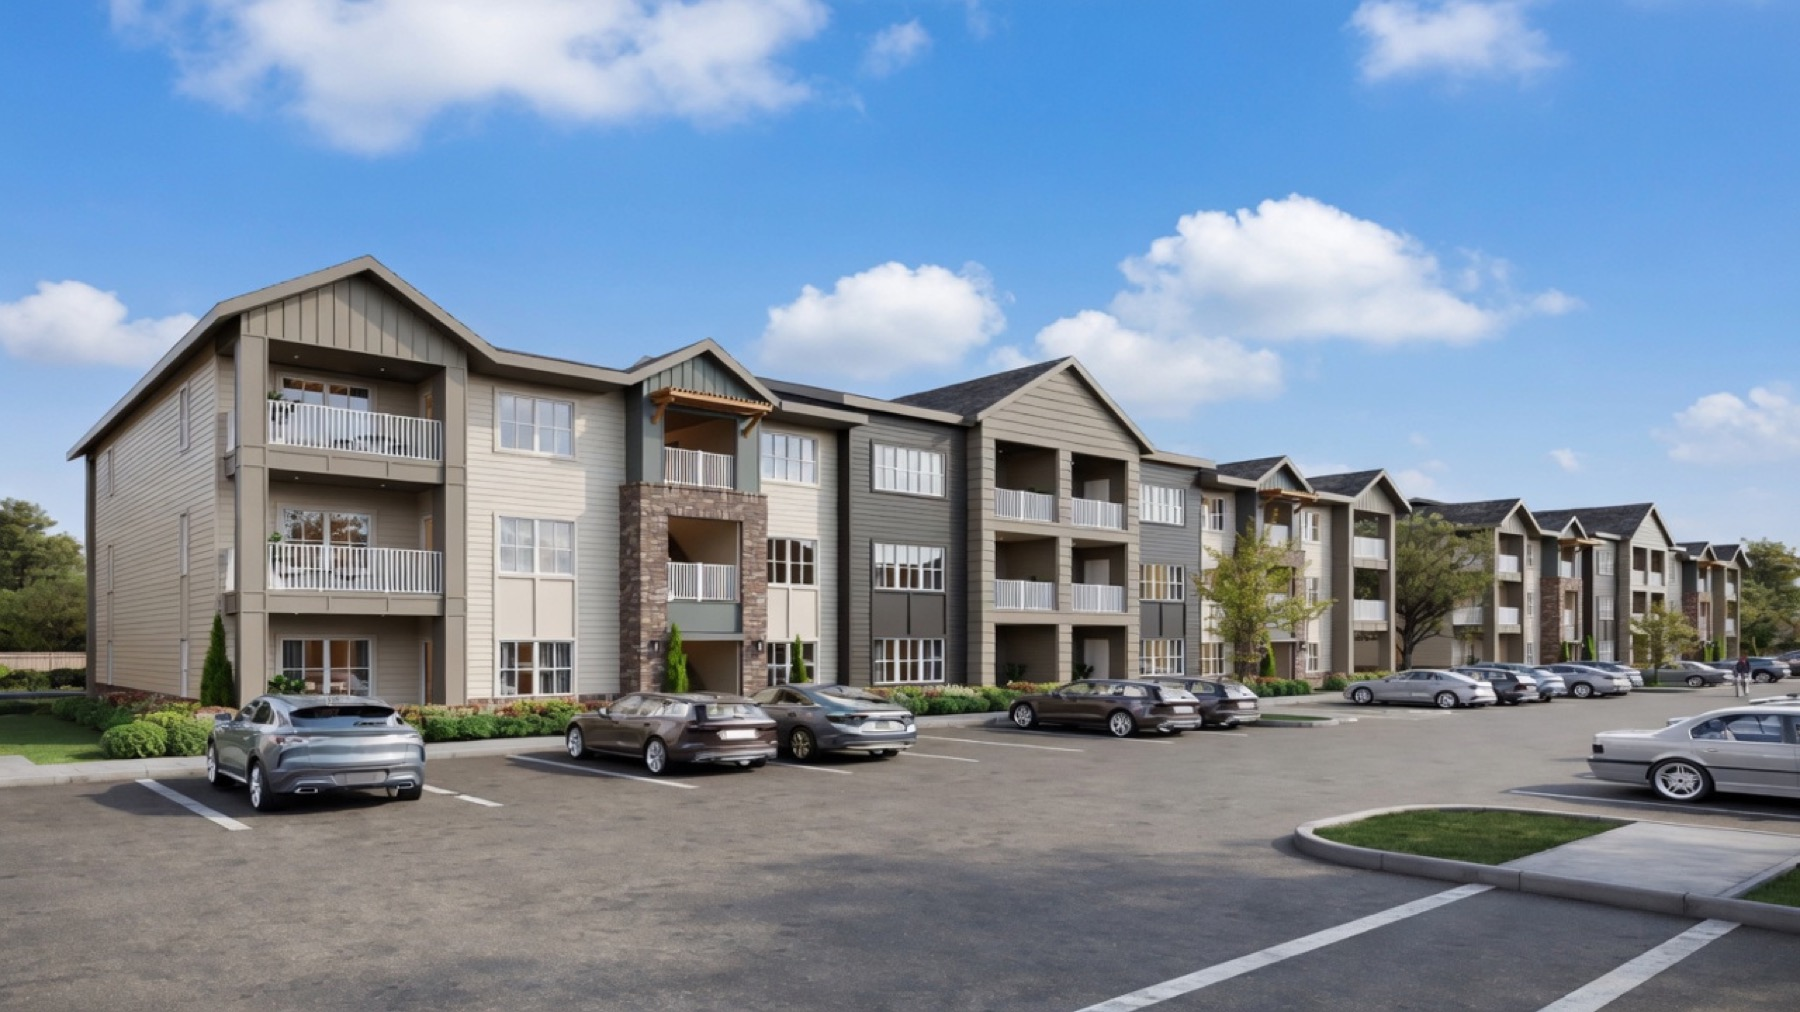
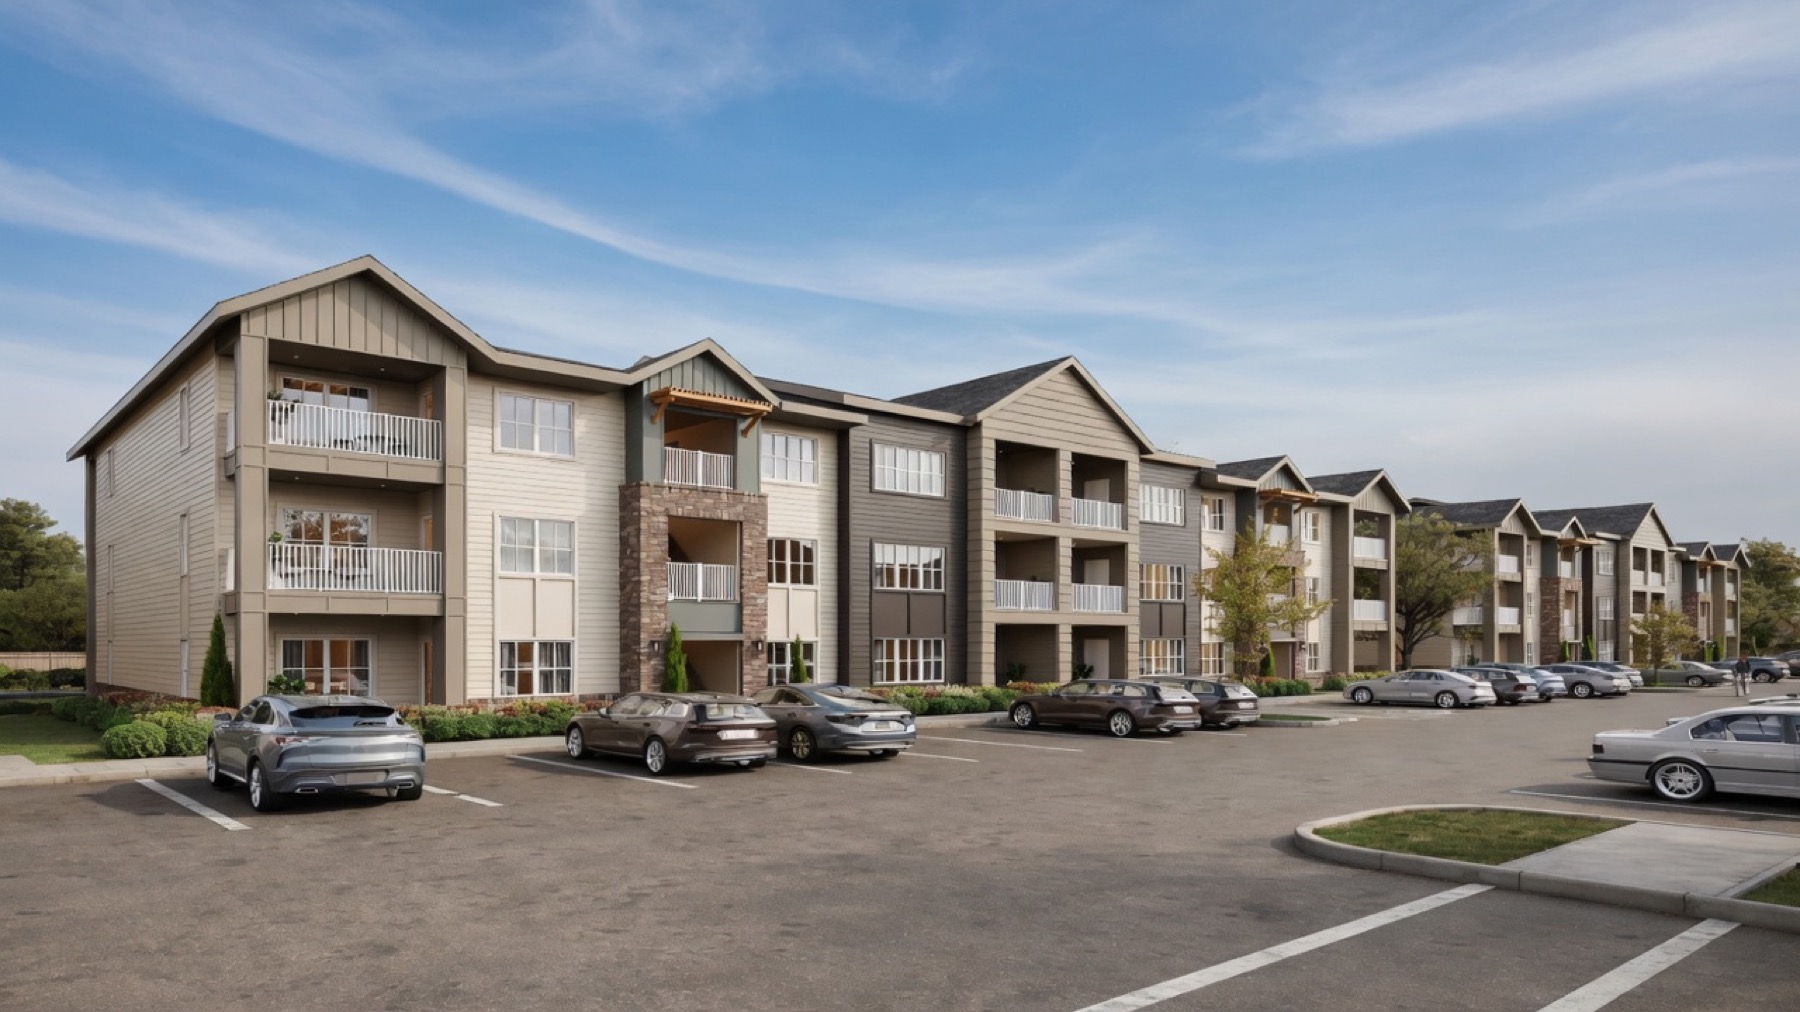
More footer breathing room + stronger Liva photoreal pass
- Extra bottom padding under footer legal so disclaimer is not flush to page edge
- Mobile sticky CTA clearance bumped
- Install cleaner Liva exterior for track cards

diff --git a/styles.css b/styles.css
@@ -835,7 +835,7 @@ input:focus, select:focus, textarea:focus {
   border-top: 1px solid var(--line);
   background:
     linear-gradient(180deg, #f7f5f1 0%, #f1ebe2 100%);
-  padding: 3rem 0 2rem;
+  padding: 3rem 0 4.5rem;
   position: relative;
 }
 .site-footer::before {
@@ -878,22 +878,23 @@ input:focus, select:focus, textarea:focus {
 }
 .footer-links a:hover { color: var(--gold-deep); }
 .legal {
-  margin-top: 2rem;
-  padding-top: 1.3rem;
+  margin-top: 2.25rem;
+  padding-top: 1.5rem;
+  padding-bottom: 1.25rem;
   border-top: 1px solid var(--line);
   font-size: 0.72rem;
-  line-height: 1.65;
+  line-height: 1.7;
   color: var(--muted);
   max-width: 64rem;
 }
 .legal-copy {
-  margin: 0 0 0.75rem;
+  margin: 0 0 0.85rem;
   font-size: inherit;
   line-height: inherit;
   color: inherit;
   font-weight: 400;
 }
-.legal-copy:last-child { margin-bottom: 0; }
+.legal-copy:last-child { margin-bottom: 0.5rem; }
 .legal-copy strong {
   color: var(--ink-soft);
   font-weight: 600;
@@ -917,7 +918,7 @@ input:focus, select:focus, textarea:focus {
 .mobile-cta .btn { width: 100%; }
 body.has-mobile-cta main,
 body.has-mobile-cta .site-footer {
-  padding-bottom: 5.5rem;
+  padding-bottom: 7.5rem;
 }
 body.menu-open .mobile-cta { display: none !important; }
 
